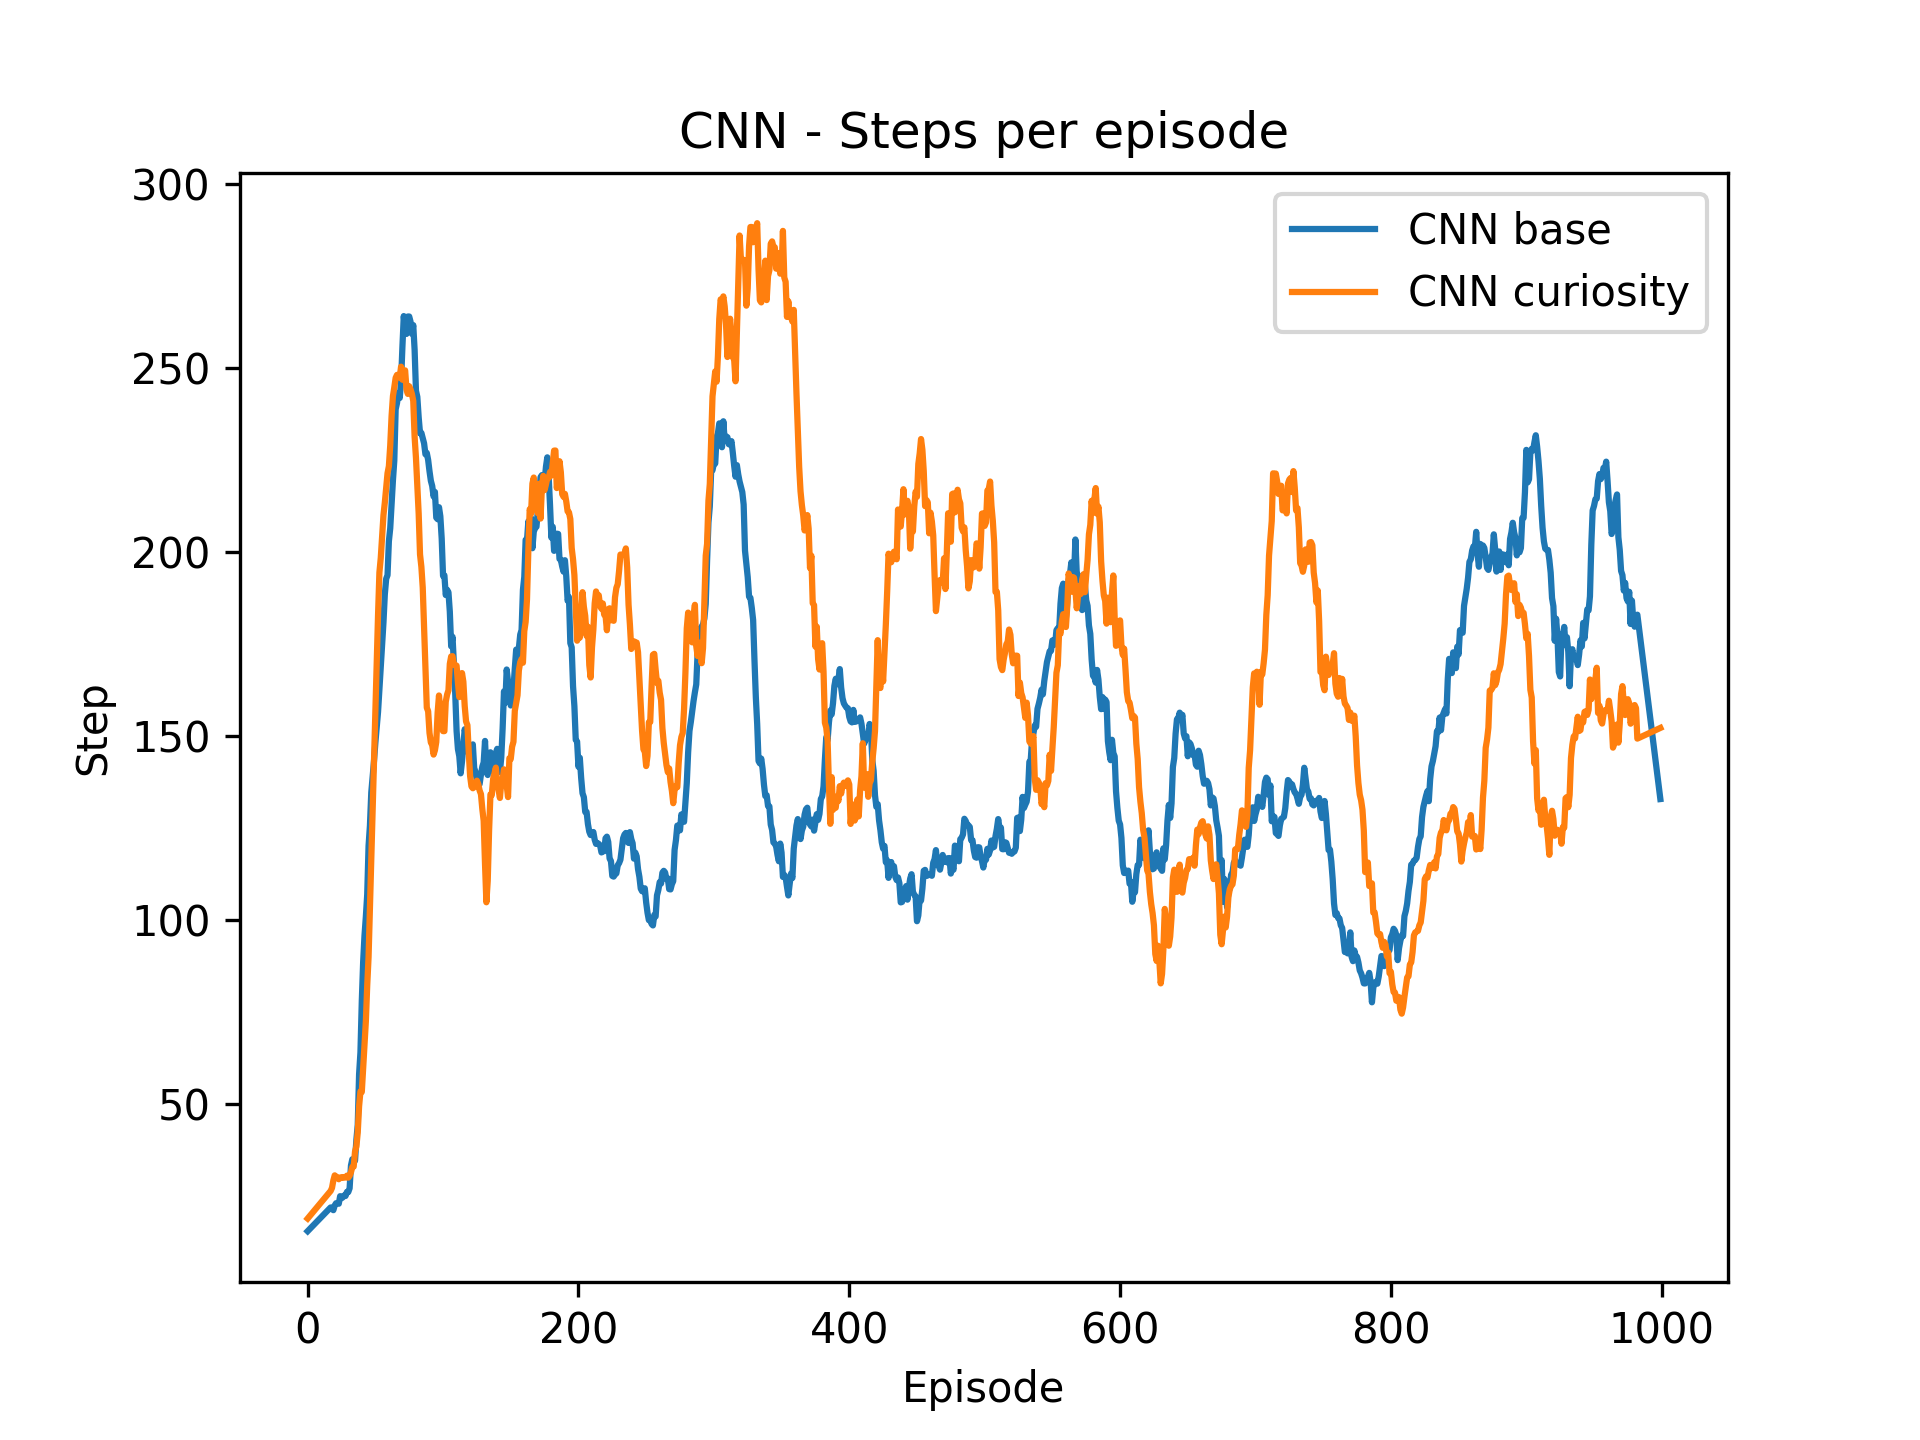
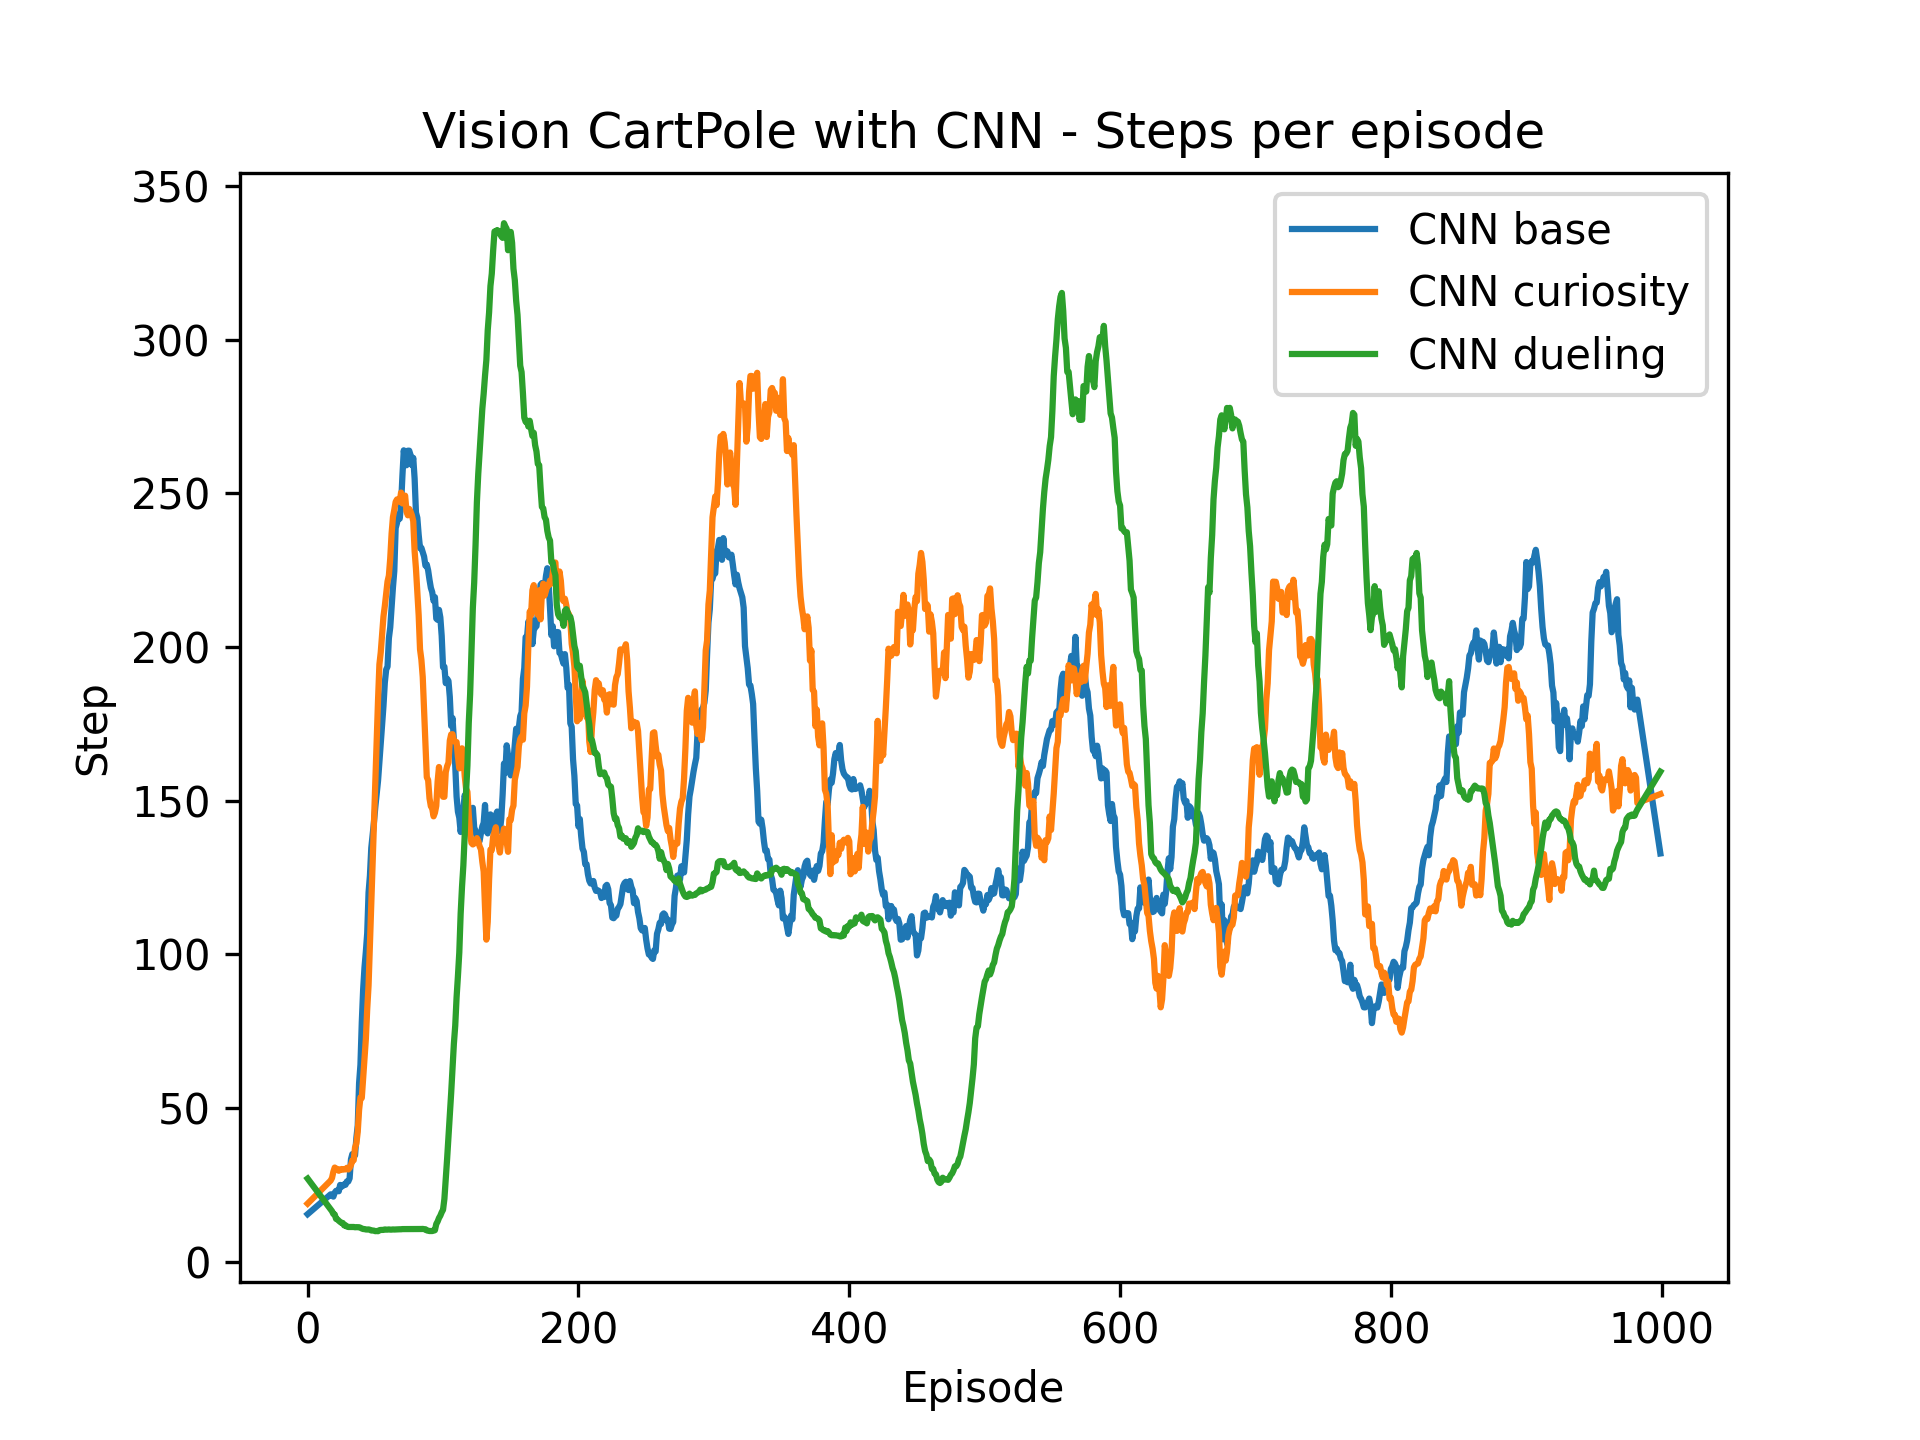
plots

diff --git a/produce_plots.py b/produce_plots.py
@@ -21,7 +21,8 @@ def add_plot(title, label, y):
 
 name = "CNN"
 fig, ax = plt.subplots()
-for conf in ["CNN_base", "CNN_curiosity"]:
+# ["MLP_base", "MLP_buffer_target", "MLP_buffer_target_novelty"]
+for conf in ["CNN_base", "SSL_base", "TL_base"]:
     steps = np.load("./exp_results/"+conf+".npy")
-    add_plot(name + " - Steps per episode", conf.replace("_", " "), steps)
+    add_plot("Vision CartPole with CNN - Steps per episode", conf.replace("_", " "), steps)
 fig.savefig(name+".png", dpi=300)
